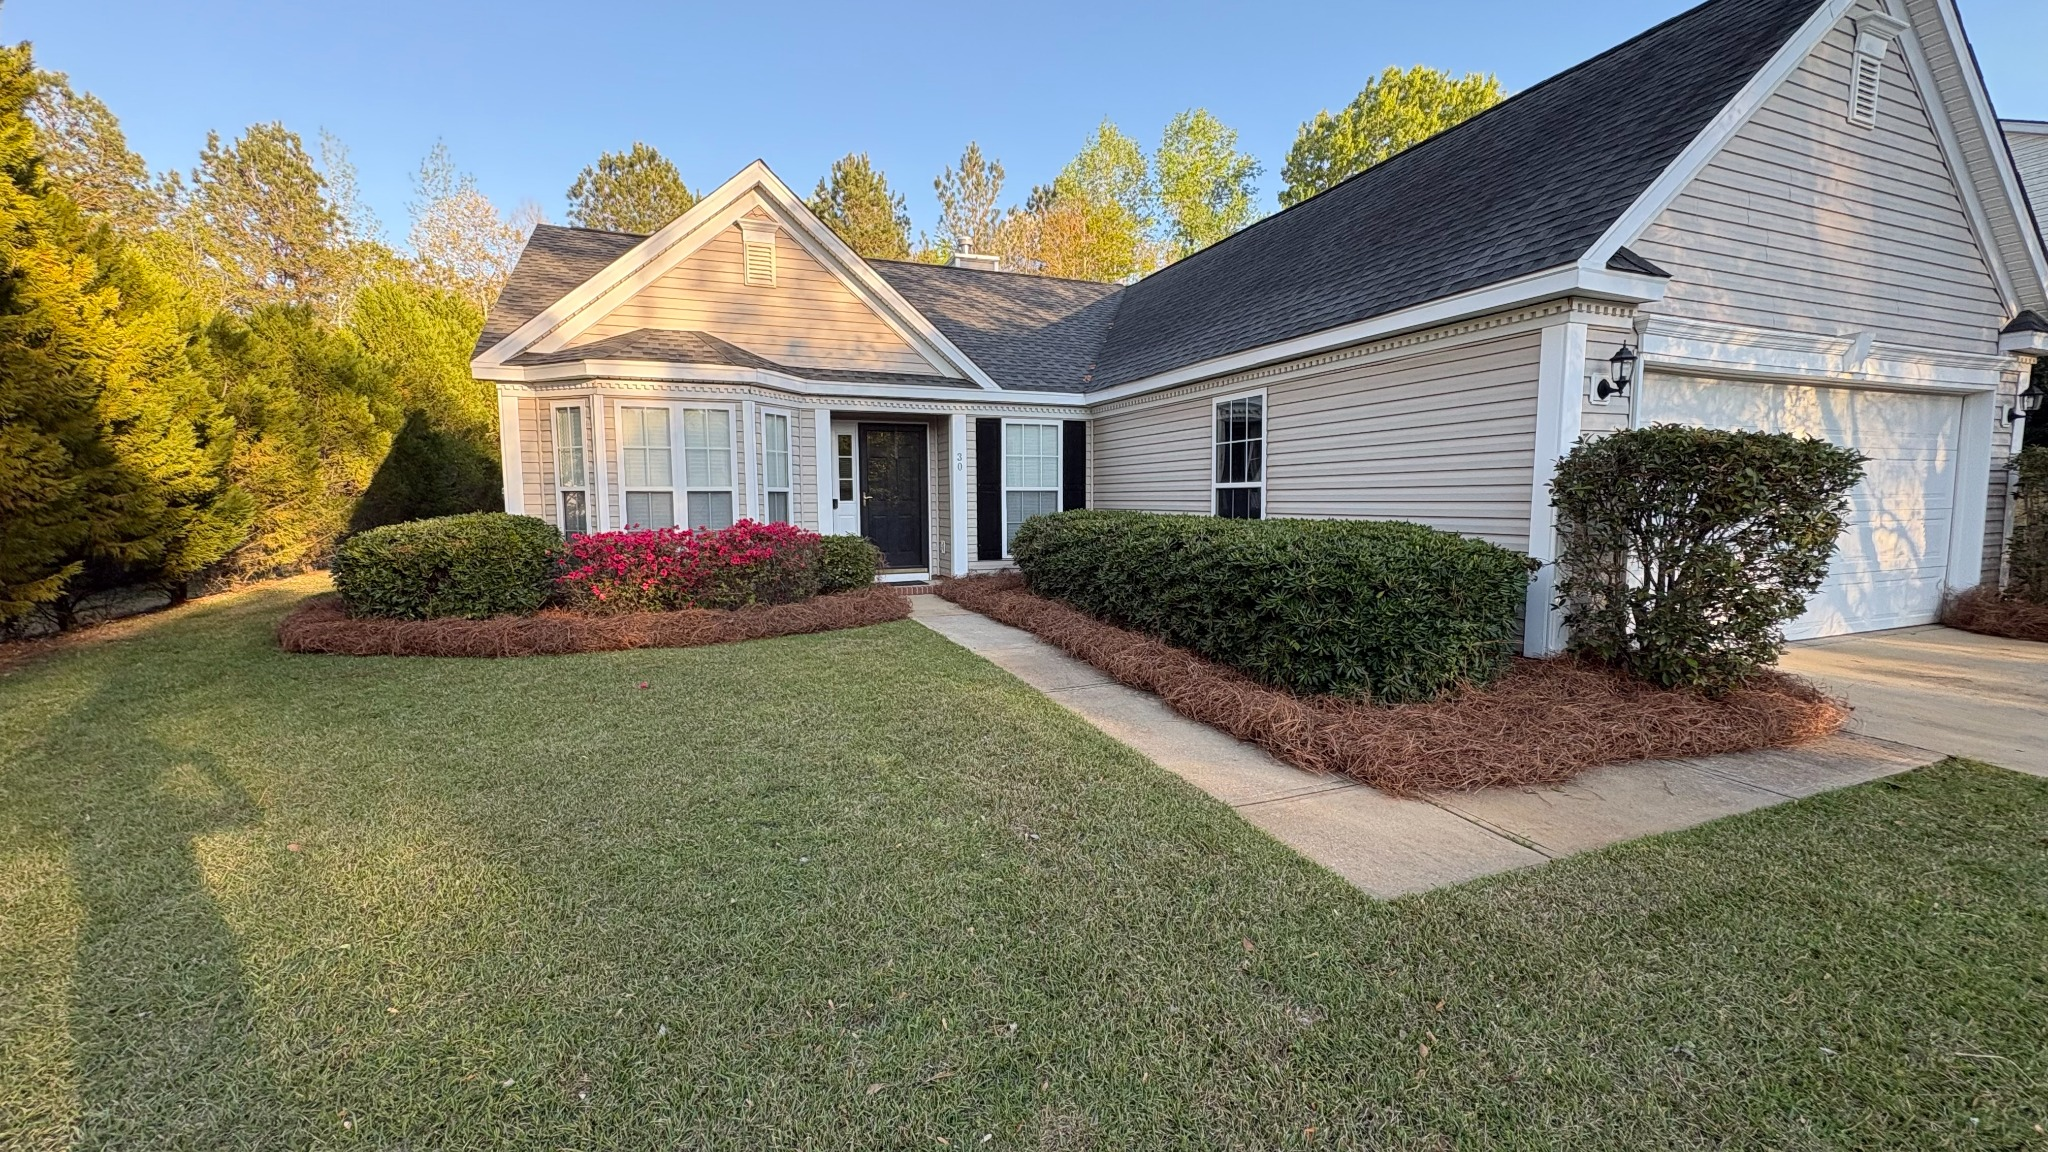
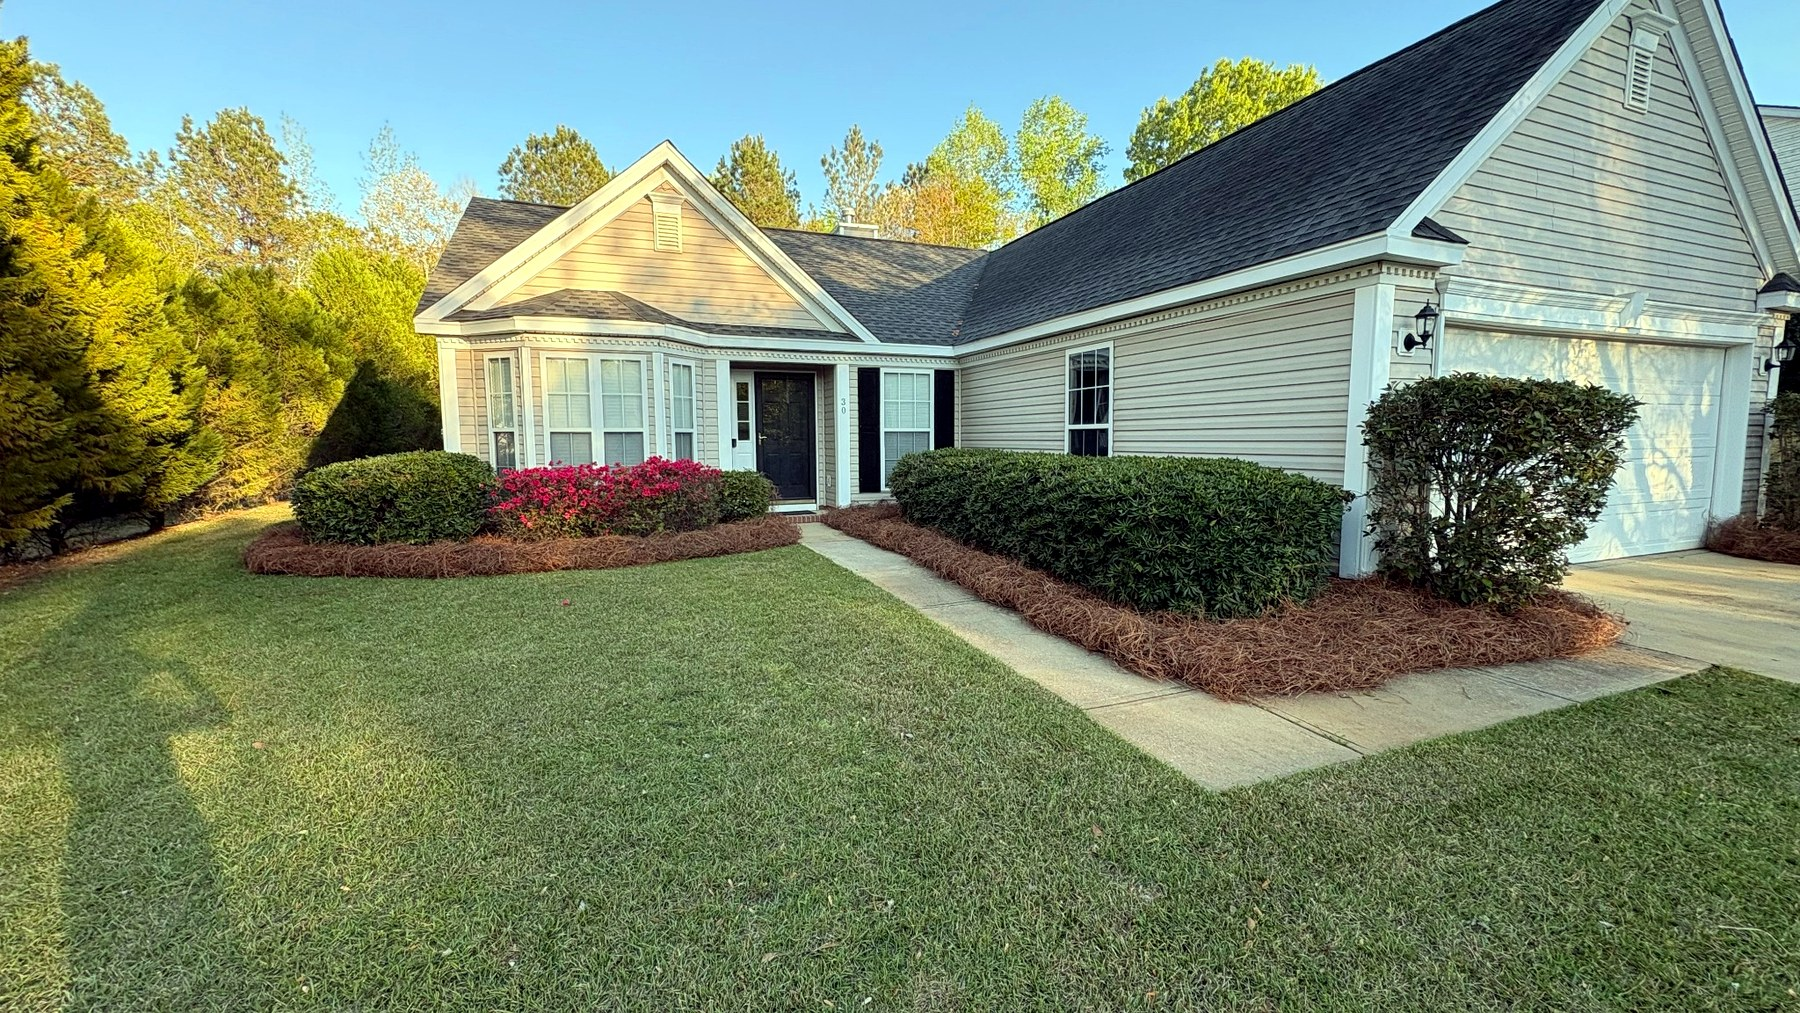
images.

diff --git a/index.html b/index.html
@@ -4,12 +4,12 @@
   <meta charset="utf-8" />
   <meta name="viewport" content="width=device-width, initial-scale=1" />
   <title>Lexington Proscapes | Landscaping & Hardscapes in Lexington, SC</title>
-  <meta name="description" content="Lexington Proscapes provides landscaping, hardscape projects, and dependable property maintenance across Lexington, Oak Grove, and West Columbia, South Carolina." />
+  <meta name="description" content="Lexington Proscapes provides landscaping, hardscape projects, bed refreshes, and dependable property maintenance throughout Lexington and surrounding Midlands communities." />
   <meta name="theme-color" content="#244b31" />
   <meta property="og:title" content="Lexington Proscapes Landscaping" />
   <meta property="og:description" content="Hardscapes, property maintenance, and outdoor upgrades for Lexington and West Columbia, SC." />
   <meta property="og:type" content="website" />
-  <meta property="og:image" content="assets/project-front-yard.jpg" />
+  <meta property="og:image" content="assets/hero-landscape.jpg" />
   <link rel="icon" href="assets/lexington-proscapes-logo.jpg" />
 
   <style>
@@ -61,6 +61,7 @@
     button { cursor: pointer; }
     .wrap { width: min(var(--max), calc(100% - 40px)); margin: 0 auto; }
     .section { padding: 96px 0; }
+    section[id] { scroll-margin-top: 100px; }
     .section-tight { padding: 62px 0; }
 
     .site-header {
@@ -439,18 +440,37 @@
       gap: 22px;
     }
 
-    .project-card {
+    .project-card,
+    .comparison-card {
       overflow: hidden;
       border: 1px solid rgba(36,75,49,.13);
       border-radius: 28px;
-      background: rgba(255,253,248,.85);
+      background: rgba(255,253,248,.88);
       box-shadow: 0 20px 48px rgba(32,43,39,.08);
     }
 
     .project-card img {
       width: 100%;
-      aspect-ratio: 4 / 3;
+      aspect-ratio: 16 / 10;
       object-fit: cover;
+    }
+
+    .project-card.featured {
+      grid-column: 1 / -1;
+      display: grid;
+      grid-template-columns: 1.35fr .65fr;
+      min-height: 430px;
+    }
+
+    .project-card.featured img {
+      height: 100%;
+      aspect-ratio: auto;
+    }
+
+    .project-card.featured .project-copy {
+      display: grid;
+      align-content: center;
+      padding: 42px;
     }
 
     .project-copy { padding: 24px; }
@@ -463,12 +483,95 @@
     }
     .project-copy p { margin-bottom: 0; color: var(--muted); }
 
+    .comparison-card {
+      grid-column: 1 / -1;
+      padding: 24px;
+    }
+
+    .comparison-heading {
+      display: flex;
+      justify-content: space-between;
+      gap: 24px;
+      align-items: end;
+      margin-bottom: 18px;
+    }
+
+    .comparison-heading h3 {
+      margin-bottom: 0;
+      font-family: Georgia, "Times New Roman", serif;
+      color: var(--green-deep);
+      font-size: clamp(2rem, 3vw, 2.8rem);
+      line-height: 1;
+    }
+
+    .comparison-heading p {
+      max-width: 520px;
+      margin-bottom: 0;
+      color: var(--muted);
+    }
+
+    .comparison-grid {
+      display: grid;
+      grid-template-columns: repeat(2, minmax(0, 1fr));
+      gap: 14px;
+    }
+
+    .comparison-image {
+      position: relative;
+      overflow: hidden;
+      border-radius: 19px;
+      background: #d8d4c9;
+    }
+
+    .comparison-image img {
+      width: 100%;
+      aspect-ratio: 128 / 41;
+      object-fit: cover;
+    }
+
+    .comparison-label {
+      position: absolute;
+      left: 14px;
+      top: 14px;
+      padding: 7px 11px;
+      border-radius: 999px;
+      color: #fff;
+      background: rgba(23,51,35,.88);
+      font-size: .76rem;
+      font-weight: 900;
+      letter-spacing: .08em;
+      text-transform: uppercase;
+      backdrop-filter: blur(8px);
+    }
+
     .why-section { background: var(--green-dark); color: white; }
     .why-section h2,
     .why-section h3 { color: white; }
     .why-section .eyebrow { color: #d8e8d3; }
     .why-section .eyebrow::before { background: #aec99f; }
-    .why-section .section-heading p { color: #c6d6cd; }
+
+    .why-heading {
+      display: grid;
+      grid-template-columns: minmax(0, 1.22fr) minmax(300px, .78fr);
+      align-items: end;
+      gap: 72px;
+      margin-bottom: 42px;
+    }
+
+    .why-heading h2 {
+      max-width: 760px;
+      margin-bottom: 0;
+      font-size: clamp(3.2rem, 5.4vw, 5.6rem);
+      line-height: .94;
+    }
+
+    .why-heading p {
+      max-width: 460px;
+      margin-bottom: 5px;
+      color: #c6d6cd;
+      font-size: 1.02rem;
+      line-height: 1.75;
+    }
 
     .why-grid {
       display: grid;
@@ -682,11 +785,7 @@
     .field select:focus,
     .field textarea:focus { border-color: var(--green); box-shadow: 0 0 0 4px rgba(79,127,67,.10); }
 
-    .form-note {
-      margin: 14px 0 20px;
-      color: var(--muted);
-      font-size: .82rem;
-    }
+    .estimate-form .button { margin-top: 20px; }
 
     .form-status {
       display: none;
@@ -772,7 +871,11 @@
       .hero-grid { gap: 38px; min-height: unset; }
       .hero-copy { padding-top: 20px; }
       .why-grid { grid-template-columns: repeat(2, minmax(0, 1fr)); }
+      .why-heading { grid-template-columns: 1fr; gap: 24px; }
+      .why-heading h2 { max-width: 840px; }
       .section-heading { align-items: start; flex-direction: column; }
+      .project-card.featured { grid-template-columns: 1fr; }
+      .project-card.featured img { min-height: 360px; }
       .photo-secondary { left: 20px; bottom: 20px; width: min(42%, 220px); }
     }
 
@@ -825,7 +928,13 @@
       .services-grid,
       .why-grid,
       .form-grid,
-      .gallery-grid { grid-template-columns: 1fr; }
+      .gallery-grid,
+      .comparison-grid { grid-template-columns: 1fr; }
+      .project-card.featured { display: block; }
+      .project-card.featured img { min-height: 280px; }
+      .project-card.featured .project-copy { padding: 28px 24px; }
+      .comparison-card { padding: 16px; }
+      .comparison-heading { align-items: start; flex-direction: column; }
       .service-card { min-height: 350px; padding: 28px; }
       .service-number { margin-bottom: 62px; }
       .field.full { grid-column: auto; }
@@ -871,7 +980,7 @@
     <section class="hero">
       <div class="wrap hero-grid">
         <div class="hero-copy">
-          <p class="eyebrow">Lexington • Oak Grove • West Columbia</p>
+          <p class="eyebrow">Lexington, SC & surrounding areas</p>
           <h1>Outdoor spaces, <em>built to last.</em></h1>
           <p class="hero-lead">
             Lexington Proscapes delivers dependable property maintenance and clean, thoughtfully built hardscape projects for homes and small businesses across the Lexington area.
@@ -890,11 +999,11 @@
 
         <div class="hero-visual">
           <div class="photo-stage">
-            <img class="photo-primary" src="assets/project-front-yard.jpg" alt="Fresh landscaping in front of a home completed by Lexington Proscapes" />
-            <img class="photo-secondary" src="assets/project-bed-install.jpg" alt="Mulch and bed refresh project by Lexington Proscapes" />
+            <img class="photo-primary" src="assets/hero-landscape.jpg" alt="Professionally refreshed landscape beds around a Lexington-area home" fetchpriority="high" decoding="async" />
+            <img class="photo-secondary" src="assets/project-bed-install.jpg" decoding="async" alt="Fresh mulch, edging, and planting work by Lexington Proscapes" />
             <div class="floating-note">
-              <strong>Real work. Real properties.</strong>
-              <span>These featured photos now give the site instant credibility and help show the difference clean landscaping makes.</span>
+              <strong>Local work, finished with care.</strong>
+              <span>Landscape maintenance and outdoor improvements completed for homeowners across the Midlands.</span>
             </div>
           </div>
         </div>
@@ -950,25 +1059,51 @@
         <div class="section-heading">
           <div>
             <p class="eyebrow">Featured work</p>
-            <h2>Recent project photos.</h2>
+            <h2>Recent projects.</h2>
           </div>
-          <p>Take a look at a few recent landscaping and property-maintenance projects completed around the Lexington area.</p>
+          <p>Landscape bed refreshes, detailed maintenance, and outdoor improvements completed for local homeowners.</p>
         </div>
 
         <div class="gallery-grid">
-          <article class="project-card">
-            <img src="assets/project-bed-install.jpg" alt="Curved bed install with fresh dark mulch and new plantings" />
+          <article class="project-card featured">
+            <img src="assets/hero-landscape.jpg" decoding="async" alt="Freshly edged and mulched landscape beds around a brick home" />
             <div class="project-copy">
-              <h3>Mulch & bed refresh</h3>
-              <p>Fresh dark mulch, clean edging, and new plant placement create a sharper, more intentional front-yard presentation.</p>
+              <p class="eyebrow">Property refresh</p>
+              <h3>Clean lines across the entire landscape.</h3>
+              <p>Defined bed edges, fresh dark mulch, and detailed shrub work create a consistent, polished finish from one end of the property to the other.</p>
             </div>
           </article>
 
           <article class="project-card">
-            <img src="assets/project-front-yard.jpg" alt="Finished front yard landscape with trimmed shrubs and pine straw" />
+            <img src="assets/project-bed-install.jpg" decoding="async" alt="Curved bed installation with fresh dark mulch and new plantings" />
+            <div class="project-copy">
+              <h3>Mulch & bed refresh</h3>
+              <p>Fresh mulch, clean edging, and carefully placed plants give this front yard a sharper, more intentional presentation.</p>
+            </div>
+          </article>
+
+          <article class="project-card">
+            <img src="assets/project-front-yard.jpg" decoding="async" alt="Finished front yard landscape with trimmed shrubs and refreshed beds" />
             <div class="project-copy">
               <h3>Front yard cleanup</h3>
-              <p>Trimmed shrubs, refreshed beds, and a clean finish give the property a polished curb-appeal upgrade.</p>
+              <p>Trimmed shrubs and refreshed beds deliver an immediate curb-appeal upgrade without overworking the existing landscape.</p>
+            </div>
+          </article>
+
+          <article class="comparison-card">
+            <div class="comparison-heading">
+              <h3>A visible before-and-after difference.</h3>
+              <p>A tired pine-straw bed was reshaped, edged, and finished with dark mulch for a cleaner look that better frames the home.</p>
+            </div>
+            <div class="comparison-grid">
+              <div class="comparison-image">
+                <img src="assets/project-before.jpg" decoding="async" alt="Landscape bed before the Lexington Proscapes refresh" />
+                <span class="comparison-label">Before</span>
+              </div>
+              <div class="comparison-image">
+                <img src="assets/project-after.jpg" decoding="async" alt="Landscape bed after fresh edging and dark mulch" />
+                <span class="comparison-label">After</span>
+              </div>
             </div>
           </article>
         </div>
@@ -977,12 +1112,12 @@
 
     <section class="section why-section">
       <div class="wrap">
-        <div class="section-heading">
+        <div class="why-heading">
           <div>
             <p class="eyebrow">The Proscapes approach</p>
-            <h2>Professional without overcomplicating it.</h2>
+            <h2>Professional service, without the runaround.</h2>
           </div>
-          <p>Good landscaping starts with showing up, communicating clearly, doing the work carefully, and leaving the property better than it was found.</p>
+          <p>Good landscaping should be straightforward: communicate clearly, arrive prepared, complete the work carefully, and leave the property looking better than it was found.</p>
         </div>
 
         <div class="why-grid">
@@ -1013,9 +1148,11 @@
     <section class="section" id="service-area">
       <div class="wrap area-layout">
         <div class="area-card">
-          <h3>Serving the Lexington area</h3>
-          <p>Primary service coverage includes Lexington, Oak Grove, and West Columbia, with nearby projects considered by request.</p>
-          <div class="area-tags"><span>Lexington</span><span>Oak Grove</span><span>West Columbia</span></div>
+          <h3>Lexington and surrounding areas</h3>
+          <p>Lexington Proscapes serves homeowners and small businesses throughout Lexington County and the surrounding Midlands. Projects outside the primary service area are considered based on scope and scheduling.</p>
+          <div class="area-tags">
+            <span>Lexington</span><span>West Columbia</span><span>Cayce</span><span>Columbia</span><span>Irmo</span><span>Gilbert</span><span>Gaston</span><span>Oak Grove</span><span>Red Bank</span>
+          </div>
         </div>
 
         <div>
@@ -1036,12 +1173,12 @@
         <div class="contact-copy">
           <p class="eyebrow">Start a project</p>
           <h2>Let’s take a look at your property.</h2>
-          <p>Tell us what you are planning and where the property is located. You can contact Lexington Proscapes directly by email or use the form to prepare a ready-to-send estimate request.</p>
+          <p>Tell us what you are planning and where the property is located. Lexington Proscapes will follow up to discuss the project and schedule a walkthrough when needed.</p>
 
           <div class="contact-points">
             <div class="contact-point"><span>✓</span> Free project estimate</div>
             <div class="contact-point"><span>✓</span> Residential and small business properties</div>
-            <div class="contact-point"><span>✓</span> Lexington and West Columbia focus</div>
+            <div class="contact-point"><span>✓</span> Lexington and surrounding Midlands communities</div>
             <div class="contact-point"><span>✉</span> <a href="mailto:[email redacted]">[email redacted]</a></div>
           </div>
 
@@ -1089,9 +1226,7 @@
               <textarea id="message" name="message" required></textarea>
             </div>
           </div>
-
-          <p class="form-note">This updated version prepares a direct email request to <strong>[email redacted]</strong> and also copies the details to the clipboard for backup.</p>
-          <button class="button primary" type="submit">Prepare Email Request</button>
+          <button class="button primary" type="submit">Email Estimate Request</button>
           <div class="form-status" id="formStatus" role="status" aria-live="polite"></div>
         </form>
       </div>
@@ -1157,9 +1292,9 @@
 
       try {
         await navigator.clipboard.writeText(request);
-        formStatus.textContent = 'Your request was copied and your email app is opening now.';
+        formStatus.textContent = 'Your email app is opening with the project details filled in.';
       } catch (error) {
-        formStatus.textContent = 'Your email app is opening now. If needed, copy the details from the form.';
+        formStatus.textContent = 'Your email app is opening with the project details filled in.';
       }
 
       formStatus.style.display = 'block';

diff --git a/README.md b/README.md
@@ -1,20 +1,22 @@
 # Lexington Proscapes website
 
-Updated static website package for GitHub Pages.
+Final GitHub Pages-ready website package.
 
-## Included updates
+## Updates in this version
 
-- Changed all branding from **Lexington Proscape** to **Lexington Proscapes**
-- Added the business email: **[email redacted]**
-- Incorporated the two supplied project photos
-- Updated the estimate form to prepare a direct email request
-- Kept the StrataWorks footer credit and logo
+- Refined the “Proscapes approach” section for cleaner desktop and mobile spacing
+- Added and optimized recent project photography
+- Added a before-and-after project comparison
+- Expanded the service area to Lexington and surrounding Midlands communities
+- Removed internal/technical form wording
+- Kept direct email contact at `[email redacted]`
+- Preserved the StrataWorks footer credit and logo
 
-## Files
+## Upload structure
 
-- `index.html` — complete website
-- `assets/lexington-proscapes-logo.jpg` — company logo
-- `assets/project-bed-install.jpg` — supplied project photo
-- `assets/project-front-yard.jpg` — supplied project photo
-- `assets/strataworks-logo.png` — footer credit logo
-- `.nojekyll` — GitHub Pages compatibility
+Upload these items directly to the root of the GitHub repository:
+
+- `index.html`
+- `.nojekyll`
+- `README.md`
+- `assets/`